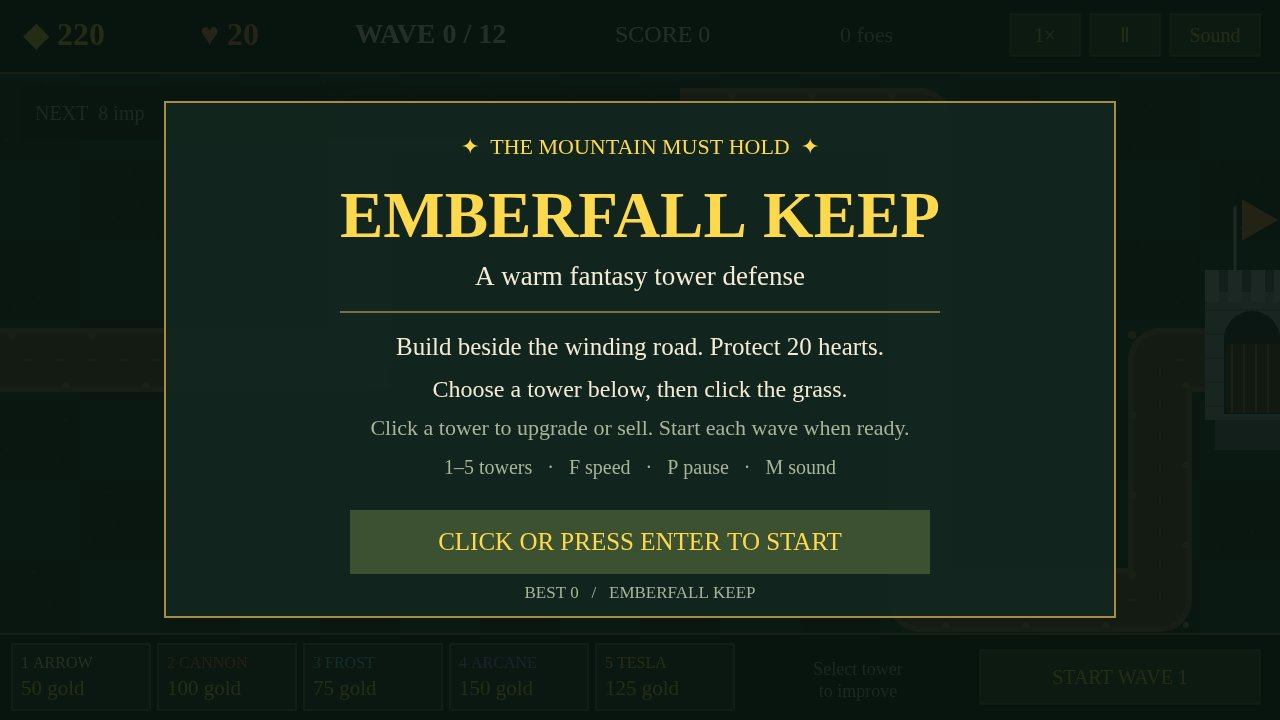
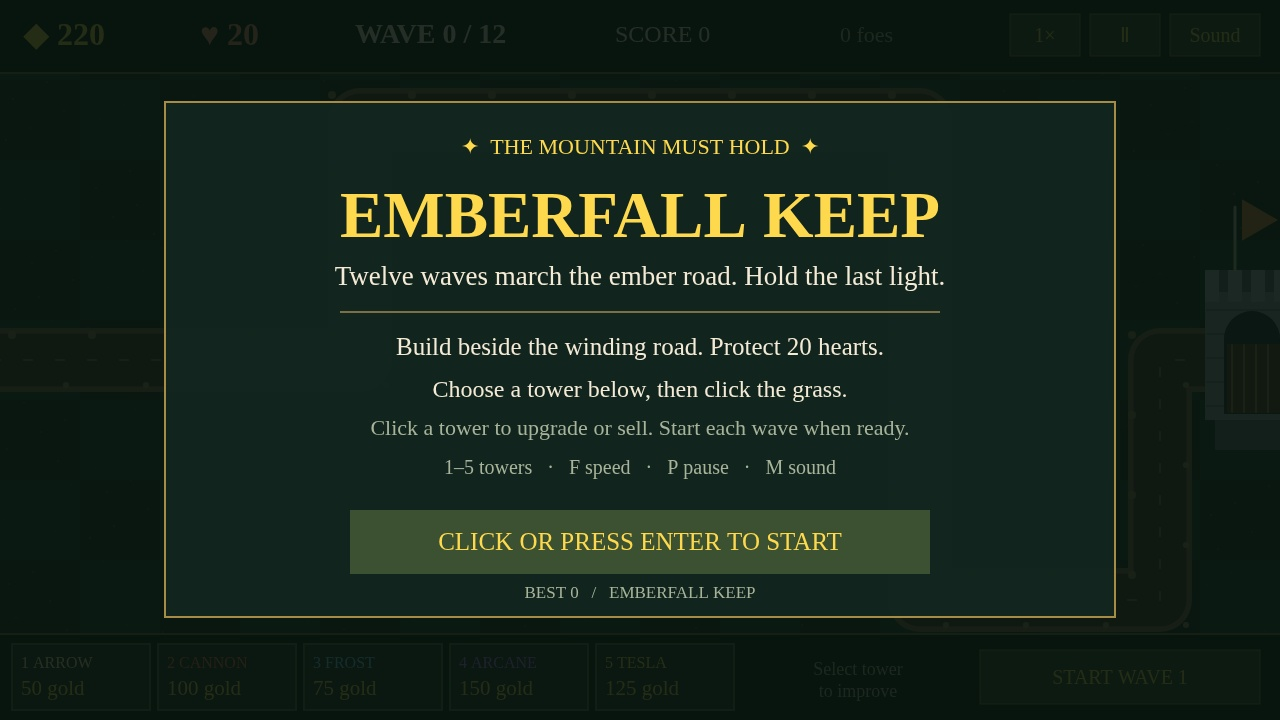
best-game-01: EMBERFALL KEEP (best-game-01: EMBERFALL KEEP winner-study pass — staged covers, truth checks, look gates, hook, outline)

Changed region(s): [[0.25, 0.3667, 0.75, 0.3972]]

diff --git a/game/src/render.js b/game/src/render.js
@@ -1,17 +1,17 @@
-import {TOWERS,ENEMIES,PATH_CELLS,WAYPOINTS,PALETTE as P,WAVES} from './config.js';
+import {TOWERS,ENEMIES,PATH_CELLS,WAYPOINTS,PALETTE as P,WAVES,KEEPER_LINES,VICTORY_LINE,DEFEAT_LINE} from './config.js';
 export const BUTTONS={start:[980,650,280,54],speed:[1010,14,70,42],pause:[1090,14,70,42],mute:[1170,14,90,42],upgrade:[755,650,105,54],sell:[870,650,100,54]};
 export const CARDS=Object.keys(TOWERS);
-export function createRenderer(canvas){const ctx=canvas.getContext('2d');let scale=1,ox=0,oy=0;
+export function createRenderer(canvas){const ctx=canvas.getContext('2d');let scale=1,ox=0,oy=0,curUi=null;
  const rect=(x,y,w,h,c)=>{ctx.fillStyle=c;ctx.fillRect(x,y,w,h);};
  function text(s,x,y,size=20,color=P.text,align='left',font='Georgia'){ctx.fillStyle=color;ctx.font=`${size>=28?'bold ':''}${size}px ${font}`;ctx.textAlign=align;ctx.fillText(s,x,y);}
  function circle(x,y,r,c){ctx.fillStyle=c;ctx.beginPath();ctx.arc(x,y,r,0,Math.PI*2);ctx.fill();}
  function line(x,y,tx,ty,color,width=2){ctx.strokeStyle=color;ctx.lineWidth=width;ctx.beginPath();ctx.moveTo(x,y);ctx.lineTo(tx,ty);ctx.stroke();}
  function polygon(x,y,r,n,color,rotation=0){ctx.fillStyle=color;ctx.beginPath();for(let i=0;i<n;i++){const a=i/n*Math.PI*2+rotation;ctx.lineTo(x+Math.cos(a)*r,y+Math.sin(a)*r);}ctx.closePath();ctx.fill();}
  function tower(type,x,y,level=1,angle=-Math.PI/2){const color=TOWERS[type].color;circle(x,y+18,26,'#102119');rect(x-21,y-15,42,38,type==='arrow'?P.wood:'#6a7778');rect(x-17,y-19,34,7,'#a3a99a');if(type==='arrow'){rect(x-10,y-27,20,25,'#a77543');ctx.strokeStyle=color;ctx.lineWidth=4;ctx.beginPath();ctx.arc(x,y-8,20,angle-1,angle+1);ctx.stroke();line(x,y-8,x+Math.cos(angle)*29,y-8+Math.sin(angle)*29,color,3);}if(type==='cannon'){circle(x,y-5,18,'#b7b7a2');line(x,y-5,x+Math.cos(angle)*33,y-5+Math.sin(angle)*33,'#263138',18);circle(x+Math.cos(angle)*31,y-5+Math.sin(angle)*31,7,color);}if(type==='frost'){polygon(x,y-17,27,4,color);polygon(x,y-17,14,4,'#e2fbff');}if(type==='arcane'){circle(x,y-20,22,'#633b85');circle(x,y-20,15,color);circle(x-5,y-26,5,'#f4dfff');}if(type==='tesla'){rect(x-6,y-33,12,42,'#a56e39');for(let i=0;i<4;i++)rect(x-15,y-23+i*8,30,4,'#f2bc69');circle(x,y-34,9,color);line(x-21,y-22,x-29,y-34,color,2);line(x+21,y-22,x+28,y-37,color,2);}for(let i=0;i<level;i++)circle(x-8+(i*8),y+30,3,P.gold);}
- function enemy(e){const {x,y,radius:r,kind}=e;circle(x,y+r*.8,r*.9,'#33291d');if(e.slow>0){ctx.strokeStyle='#7ad9ff';ctx.lineWidth=3;ctx.beginPath();ctx.arc(x,y,r+5,0,7);ctx.stroke();}if(kind==='armored'){polygon(x,y,r,6,'#9aa3ad',.5);polygon(x,y,8,5,'#535b60');}else if(kind==='runner'){polygon(x,y,r+4,3,'#ff7052',0);}else if(kind==='healer'){circle(x,y,r,'#65c885');text('+',x,y+7,25,'#e8ffbc','center');circle(x+Math.sin(e.distance)*16,y-15,2,'#c4ffc1');}else if(kind==='swarm'){polygon(x-7,y,10,3,'#a25464');polygon(x+7,y,10,3,'#a25464');circle(x,y,5,'#ff9162');}else{polygon(x-r*.6,y-r*.8,r*.5,3,'#ffc25d',-1.6);polygon(x+r*.6,y-r*.8,r*.5,3,'#ffc25d',-1.6);circle(x,y,r,kind==='boss'?'#a63c2c':'#e36739');if(kind==='boss'){for(let i=0;i<5;i++)polygon(x-24+i*12,y-32,13,3,'#ffb944',-1.6);polygon(x,y,19,5,'#f98b3b');}circle(x-r*.35,y-3,3,'#ffe7a2');circle(x+r*.35,y-3,3,'#ffe7a2');}rect(x-r,y-r-11,r*2,4,'#211d18');rect(x-r,y-r-11,r*2*Math.max(0,e.hp/e.maxHp),4,kind==='boss'?'#ffc256':'#b5df85');}
- function button(id,label,enabled=true){const b=BUTTONS[id];rect(...b,enabled?'#344c36':'#243025');ctx.strokeStyle='#8c8048';ctx.lineWidth=1;ctx.strokeRect(...b);text(label,b[0]+b[2]/2,b[1]+b[3]/2+7,20,enabled?P.gold:P.muted,'center');}
- function draw(state,screen,ui){const dpr=window.devicePixelRatio||1,w=innerWidth,h=innerHeight;if(canvas.width!==w*dpr||canvas.height!==h*dpr){canvas.width=w*dpr;canvas.height=h*dpr;}scale=Math.min(w/1280,h/720);ox=(w-1280*scale)/2;oy=(h-720*scale)/2;ctx.setTransform(dpr,0,0,dpr,0,0);rect(0,0,w,h,P.background);ctx.translate(ox,oy);ctx.scale(scale,scale);
- ctx.save();const shake=state.trauma**2*10;ctx.translate(Math.sin(state.time*81)*shake,Math.cos(state.time*97)*shake);
+ function enemy(e){const {x,y,radius:r,kind}=e;circle(x,y,r+4,'rgba(255,214,140,0.20)');circle(x,y+r*.8,r*.9,'#33291d');if(e.slow>0){ctx.strokeStyle='#7ad9ff';ctx.lineWidth=3;ctx.beginPath();ctx.arc(x,y,r+5,0,7);ctx.stroke();}if(kind==='armored'){polygon(x,y,r,6,'#9aa3ad',.5);polygon(x,y,8,5,'#535b60');}else if(kind==='runner'){polygon(x,y,r+4,3,'#ff7052',0);}else if(kind==='healer'){circle(x,y,r,'#65c885');text('+',x,y+7,25,'#e8ffbc','center');circle(x+Math.sin(e.distance)*16,y-15,2,'#c4ffc1');}else if(kind==='swarm'){polygon(x-7,y,10,3,'#a25464');polygon(x+7,y,10,3,'#a25464');circle(x,y,5,'#ff9162');}else{polygon(x-r*.6,y-r*.8,r*.5,3,'#ffc25d',-1.6);polygon(x+r*.6,y-r*.8,r*.5,3,'#ffc25d',-1.6);circle(x,y,r,kind==='boss'?'#a63c2c':'#e36739');if(kind==='boss'){for(let i=0;i<5;i++)polygon(x-24+i*12,y-32,13,3,'#ffb944',-1.6);polygon(x,y,19,5,'#f98b3b');}circle(x-r*.35,y-3,3,'#ffe7a2');circle(x+r*.35,y-3,3,'#ffe7a2');}rect(x-r,y-r-12,r*2,5,'#211d18');rect(x-r,y-r-12,r*2*Math.max(0,e.hp/e.maxHp),5,kind==='boss'?'#ffc256':'#b5df85');}
+ function button(id,label,enabled=true){const b=BUTTONS[id];const hov=enabled&&curUi&&curUi.hoverX>=b[0]&&curUi.hoverX<b[0]+b[2]&&curUi.hoverY>=b[1]&&curUi.hoverY<b[1]+b[3];rect(...b,hov?'#4a5f3d':enabled?'#344c36':'#243025');ctx.strokeStyle=hov?P.gold:'#8c8048';ctx.lineWidth=1;ctx.strokeRect(...b);text(label,b[0]+b[2]/2,b[1]+b[3]/2+7,20,enabled?P.gold:P.muted,'center');}
+ function draw(state,screen,ui){curUi=ui;const dpr=window.devicePixelRatio||1,w=innerWidth,h=innerHeight;if(canvas.width!==w*dpr||canvas.height!==h*dpr){canvas.width=w*dpr;canvas.height=h*dpr;}scale=Math.min(w/1280,h/720);ox=(w-1280*scale)/2;oy=(h-720*scale)/2;ctx.setTransform(dpr,0,0,dpr,0,0);rect(0,0,w,h,P.background);ctx.translate(ox,oy);ctx.scale(scale,scale);
+ ctx.save();const effTrauma=Math.max(state.trauma,ui.shake||0),shake=effTrauma**2*10;ctx.translate(Math.sin(state.time*81)*shake,Math.cos(state.time*97)*shake);
  for(let r=0;r<9;r++)for(let c=0;c<16;c++){rect(c*80,r*80,80,80,(r+c)%2?P.grassA:P.grassB);for(let i=0;i<5;i++)circle(c*80+((c*31+i*17+r*13)%75),r*80+((r*19+i*29+c*7)%75),1,'#38503a');}
  ctx.lineJoin='round';ctx.lineCap='round';for(const [width,color] of [[64,P.edge],[53,P.path]]){ctx.beginPath();ctx.strokeStyle=color;ctx.lineWidth=width;for(const p of WAYPOINTS)ctx.lineTo(...p);ctx.stroke();}ctx.setLineDash([8,24]);ctx.lineWidth=2;ctx.strokeStyle='#907452';ctx.stroke();ctx.setLineDash([]);
  for(const [c,r] of PATH_CELLS){circle(c*80+12,r*80+15,4,'#99805b');circle(c*80+66,r*80+65,3,'#a38a65');}
@@ -25,13 +25,15 @@ export function createRenderer(canvas){const ctx=canvas.getContext('2d');let sca
  for(const p of state.particles)if(p.active){ctx.globalAlpha=p.life/p.maxLife;if(p.zap){line(p.x,p.y,(p.x+p.tx)/2+9,(p.y+p.ty)/2-8,p.color,3);line((p.x+p.tx)/2+9,(p.y+p.ty)/2-8,p.tx,p.ty,p.color,3);}else circle(p.x,p.y,p.size,p.color);}ctx.globalAlpha=1;
  for(const t of state.texts)if(t.active)text(t.text,t.x,t.y,16,P.gold,'center');ctx.restore();
  rect(0,0,1280,74,'#101c15');rect(0,72,1280,2,'#7f7545');text('◆ '+state.gold,24,45,32,P.gold);text('♥ '+state.lives,200,45,32,'#ff9976');text('WAVE '+state.wave+' / 12',355,43,28);text('SCORE '+state.score,615,42,24);const left=state.enemies.reduce((n,e)=>n+e.active,0)+state.spawnCount-state.spawnIndex;text(left+' foes',840,42,22,P.muted);button('speed',state.speed+'×');button('pause',ui.paused?'▶':'Ⅱ');button('mute',ui.muted?'Muted':'Sound');
- rect(0,634,1280,86,'#101c15');line(0,634,1280,634,'#7f7545');CARDS.forEach((type,i)=>{const x=12+i*146,def=TOWERS[type];rect(x,644,138,66,ui.selectedType===type?'#425438':'#26382a');ctx.strokeStyle=ui.selectedType===type?P.gold:'#5e6a48';ctx.strokeRect(x,644,138,66);text((i+1)+' '+type.toUpperCase(),x+9,668,16,state.gold>=def.cost?def.color:'#798275');text(def.cost+' gold',x+9,695,21,state.gold>=def.cost?P.gold:'#798275');});
+ rect(0,634,1280,86,'#101c15');line(0,634,1280,634,'#7f7545');CARDS.forEach((type,i)=>{const x=12+i*146,def=TOWERS[type];const hov=ui.hoverX>=x&&ui.hoverX<x+138&&ui.hoverY>=644&&ui.hoverY<710;rect(x,644,138,66,ui.selectedType===type?'#425438':hov?'#33482e':'#26382a');ctx.strokeStyle=ui.selectedType===type||hov?P.gold:'#5e6a48';ctx.strokeRect(x,644,138,66);text((i+1)+' '+type.toUpperCase(),x+9,668,16,state.gold>=def.cost?def.color:'#798275');text(def.cost+' gold',x+9,695,21,state.gold>=def.cost?P.gold:'#798275');});
  if(ui.selectedTower?.active){const t=ui.selectedTower;button('upgrade',t.level===3?'MAX':'↑ '+Math.round(TOWERS[t.type].cost*(t.level===1?.75:1.25))+'g',t.level<3);button('sell','Sell '+Math.floor(t.invested*.7));}else{text('Select tower',858,675,18,P.muted,'center');text('to improve',858,697,18,P.muted,'center');}button('start',state.waveState==='build'?'START WAVE '+(state.wave+1):state.waveState==='clear'?'WAVE CLEAR':'WAVE '+state.wave+' IN PROGRESS',state.waveState==='build');
- if(state.waveState==='build'){rect(20,86,660,54,'#14271ddd');text('NEXT  '+(WAVES[state.wave]||[]).map(([k,n])=>n+' '+k).join('  ·  '),35,120,20,P.muted);}
+ if(screen==='playing'&&state.waveState==='build'){rect(20,86,660,80,'#14271ddd');text('NEXT  '+(WAVES[state.wave]||[]).map(([k,n])=>n+' '+k).join('  ·  '),35,118,20,P.muted);text(KEEPER_LINES[state.wave]||'',35,148,18,'#cbbd8f');}
  if(state.waveState==='clear'){rect(380,280,520,100,'#102119ee');text('WAVE CLEAR  +'+(25+15*state.wave)+'g',640,342,34,P.gold,'center');}
- const boss=state.enemies.find(e=>e.active&&e.kind==='boss');if(boss){rect(350,86,580,48,'#171d18');text('EMBER TITAN',640,106,18,P.gold,'center');rect(365,114,550,9,'#46302a');rect(365,114,550*boss.hp/boss.maxHp,9,'#ff7a3d');}
- if(screen==='title'||screen==='won'||screen==='lost'){rect(0,0,1280,720,'#07130ee0');rect(165,102,950,515,'#12261ff0');ctx.strokeStyle='#a78c45';ctx.lineWidth=2;ctx.strokeRect(165,102,950,515);text('✦  THE MOUNTAIN MUST HOLD  ✦',640,154,22,P.gold,'center');text(screen==='title'?'EMBERFALL KEEP':screen==='won'?'THE KEEP ENDURES':'THE KEEP HAS FALLEN',640,237,screen==='title'?65:48,P.gold,'center');text(screen==='title'?'A warm fantasy tower defense':screen==='won'?'VICTORY  ·  ALL 12 WAVES SURVIVED':'DEFEAT  ·  WAVE '+state.wave,640,285,27,P.text,'center');line(340,312,940,312,'#7b7045');if(screen==='title'){text('Build beside the winding road. Protect 20 hearts.',640,355,25,P.text,'center');text('Choose a tower below, then click the grass.',640,397,24,P.text,'center');text('Click a tower to upgrade or sell. Start each wave when ready.',640,435,22,P.muted,'center');text('1–5 towers   ·   F speed   ·   P pause   ·   M sound',640,474,20,P.muted,'center');}else{text('SCORE '+state.score+'     ·     KILLS '+state.kills,640,375,34,P.text,'center');text(state.lives+' hearts remain   ·   Best '+ui.best,640,429,26,P.muted,'center');}rect(350,510,580,64,'#3c5132');text(screen==='title'?'CLICK OR PRESS ENTER TO START':'CLICK OR PRESS R TO PLAY AGAIN',640,550,25,P.gold,'center');text('BEST '+ui.best+'   /   EMBERFALL KEEP',640,598,17,P.muted,'center');}
+ if(ui.toast){rect(320,280,640,92,'#102119ee');text(ui.toast.title,640,320,30,ui.toast.boss?'#ff9a5c':P.gold,'center');text(ui.toast.line,640,352,20,'#e8dcc0','center');}
+ const boss=state.enemies.find(e=>e.active&&e.kind==='boss');if(boss){rect(350,590,580,40,'#171d18ee');ctx.strokeStyle='#7b7045';ctx.lineWidth=1;ctx.strokeRect(350,590,580,40);text('EMBER TITAN',640,608,17,P.gold,'center');rect(365,616,550,8,'#46302a');rect(365,616,550*boss.hp/boss.maxHp,8,'#ff7a3d');}
+ if(screen==='title'||screen==='won'||screen==='lost'){rect(0,0,1280,720,'#07130ee0');rect(165,102,950,515,'#12261ff0');ctx.strokeStyle='#a78c45';ctx.lineWidth=2;ctx.strokeRect(165,102,950,515);text('✦  THE MOUNTAIN MUST HOLD  ✦',640,154,22,P.gold,'center');text(screen==='title'?'EMBERFALL KEEP':screen==='won'?'THE KEEP ENDURES':'THE KEEP HAS FALLEN',640,237,screen==='title'?65:48,P.gold,'center');text(screen==='title'?'Twelve waves march the ember road. Hold the last light.':screen==='won'?'VICTORY  ·  ALL 12 WAVES SURVIVED':'DEFEAT  ·  WAVE '+state.wave,640,285,27,P.text,'center');line(340,312,940,312,'#7b7045');if(screen==='title'){text('Build beside the winding road. Protect 20 hearts.',640,355,25,P.text,'center');text('Choose a tower below, then click the grass.',640,397,24,P.text,'center');text('Click a tower to upgrade or sell. Start each wave when ready.',640,435,22,P.muted,'center');text('1–5 towers   ·   F speed   ·   P pause   ·   M sound',640,474,20,P.muted,'center');}else{text('SCORE '+state.score+'     ·     KILLS '+state.kills,640,375,34,P.text,'center');text(state.lives+' hearts remain   ·   Best '+ui.best,640,429,26,P.muted,'center');text(screen==='won'?VICTORY_LINE:DEFEAT_LINE,640,472,20,'#cbbd8f','center');}const ctaHov=curUi&&curUi.hoverX>=350&&curUi.hoverX<930&&curUi.hoverY>=510&&curUi.hoverY<574;rect(350,510,580,64,ctaHov?'#54703f':'#3c5132');text(screen==='title'?'CLICK OR PRESS ENTER TO START':'CLICK OR PRESS R TO PLAY AGAIN',640,550,25,P.gold,'center');text('BEST '+ui.best+'   /   EMBERFALL KEEP',640,598,17,P.muted,'center');}
  if(ui.paused&&screen==='playing'){rect(0,74,1280,560,'#0b160bdc');text('PAUSED',640,325,65,P.gold,'center');text('Click pause or press P to continue',640,380,26,P.text,'center');}
+ if(ui.flashAlpha>0){ctx.globalAlpha=ui.flashAlpha;rect(0,0,1280,720,ui.flashColor||'#ffffff');ctx.globalAlpha=1;}
  }
  return {draw,clientToField(cx,cy){return {x:(cx-ox)/scale,y:(cy-oy)/scale};}};
 }

diff --git a/game/src/main.js b/game/src/main.js
@@ -1,21 +1,37 @@
+// EMBERFALL KEEP — main loop and screens. Where things live:
+// config.js (numbers, colours, Keeper lines) -> random.js (seeded RNG) ->
+// world.js (simulation: rules and state, no drawing) -> input.js (mouse and
+// keys) -> audio.js (synth sounds per event flag) -> render.js (drawing
+// only) -> shots.js (auto-player and staged-cover ticks). This file owns the
+// screens, the fixed 1/60 timestep, hit-stop (real-time restore), the
+// tiered feedback bundles, the wave toast, and the best score.
 import {createWorld} from './world.js';
 import {createRandom} from './random.js';
 import {createRenderer,BUTTONS,CARDS} from './render.js';
 import {createInput} from './input.js';
 import {createAudio} from './audio.js';
 import {runShot} from './shots.js';
-import {BEST_KEY} from './config.js';
+import {BEST_KEY,KEEPER_LINES} from './config.js';
 const canvas=document.querySelector('#game'),renderer=createRenderer(canvas),input=createInput(canvas,renderer.clientToField),audio=createAudio(),params=new URLSearchParams(location.search),world=createWorld(createRandom(Number(params.get('seed')||1))),state=world.state;
-let screen='title',paused=false,muted=false,selectedType='arrow',selectedTower=null,best=0,last=0,acc=0;
+let screen='title',paused=false,muted=false,selectedType='arrow',selectedTower=null,best=0,last=0,acc=0,freezeUntil=0,uiShake=0,flashColor='#ffffff',flashAlpha=0,toast=null,toastUntil=0,lastCursor='';
 try{best=JSON.parse(localStorage.getItem(BEST_KEY)||'{}').score||0;}catch{}
 window.__game={state,world};
 function announce(s){document.querySelector('#status').textContent=s;}
 function save(){if(state.score>best){best=state.score;try{localStorage.setItem(BEST_KEY,JSON.stringify({score:best,wave:state.wave}));}catch{}}}
-function draw(){renderer.draw(state,screen,{best,muted,selectedType,selectedTower,hoverCell:input.mouse.cell,paused,wavePreview:state.wave+1});}
+function draw(){renderer.draw(state,screen,{best,muted,selectedType,selectedTower,hoverCell:input.mouse.cell,hoverX:input.mouse.x,hoverY:input.mouse.y,paused,wavePreview:state.wave+1,shake:uiShake,flashColor,flashAlpha,toast:toast&&state.time<toastUntil?toast:null});}
 function restart(){world.reset();screen='playing';paused=false;selectedTower=null;selectedType='arrow';announce('New run. Build your defenses.');}
-function start(){if(world.startWave()){audio.horn();announce('Wave '+state.wave+' begins.');}}
-function sounds(flags){for(const [flag,name] of [[1,'shoot'],[2,'cannon'],[4,'frost'],[8,'zap'],[32,'coin'],[64,'leak'],[256,'win'],[512,'lose'],[1024,'build'],[2048,'upgrade']])if(flags&flag)audio[name]();if(flags&64)announce('A creature reached the keep. '+state.lives+' hearts left.');if(flags&128)announce('Wave '+state.wave+' cleared.');}
+function start(){if(world.startWave()){audio.horn();toast={title:state.wave===12?'THE EMBER TITAN AWAKENS':'WAVE '+state.wave,line:KEEPER_LINES[state.wave-1]||'',boss:state.wave===12};toastUntil=state.time+3.5;announce('Wave '+state.wave+' begins. '+(KEEPER_LINES[state.wave-1]||''));}}
+function sounds(flags){for(const [flag,name] of [[1,'shoot'],[2,'cannon'],[4,'frost'],[8,'zap'],[32,'coin'],[64,'leak'],[128,'clear'],[256,'win'],[512,'lose'],[1024,'build'],[2048,'upgrade']])if(flags&flag)audio[name]();if(flags&64)announce('A creature reached the keep. '+state.lives+' hearts left.');if(flags&128)announce('Wave '+state.wave+' cleared.');}
 function click(){audio.unlock();if(screen==='title'){screen='playing';return;}if(screen==='won'||screen==='lost'){restart();return;}const m=input.mouse;for(const [key,b] of Object.entries(BUTTONS))if(m.x>=b[0]&&m.x<b[0]+b[2]&&m.y>=b[1]&&m.y<b[1]+b[3]){if(key==='start'&&!paused)start();if(key==='speed')state.speed=state.speed===1?2:1;if(key==='pause')paused=!paused;if(key==='mute')muted=audio.toggleMute();if(key==='upgrade'&&!paused)world.upgrade(selectedTower);if(key==='sell'&&!paused){world.sell(selectedTower);selectedTower=null;}return;}if(m.y>=644){const i=Math.floor((m.x-12)/146);if(i>=0&&i<5){selectedType=CARDS[i];selectedTower=null;}return;}if(m.y<74||m.y>634||paused)return;const cell=m.cell;for(const t of state.towers)if(t.active&&t.c===cell.c&&t.r===cell.r){selectedTower=t;selectedType=null;return;}if(selectedType)world.build(selectedType,cell);else selectedTower=null;}
-if(params.has('shot')){const name=params.get('shot');runShot(world,name);screen=name==='start'?'title':state.waveState==='won'?'won':'playing';selectedType=null;draw();window.__shotReady=true;}else{
- function frame(now){const dt=Math.min(.1,(now-last)/1000||0);last=now;const actions=input.takeActions(),type=input.selectedTowerType();if(type){selectedType=type;selectedTower=null;}if(input.mouse.clicked){input.mouse.clicked=false;click();}if(actions.ACTION_MUTE)muted=audio.toggleMute();if(actions.ACTION_START_WAVE){audio.unlock();if(screen==='title')screen='playing';else if(screen==='playing'&&!paused)start();}if(actions.ACTION_RESTART&&(screen==='won'||screen==='lost'))restart();if(actions.ACTION_PAUSE&&screen==='playing')paused=!paused;if(actions.ACTION_DESELECT){selectedType=null;selectedTower=null;}if(actions.ACTION_SPEED)state.speed=state.speed===1?2:1;if(screen==='playing'&&!paused){acc+=dt*state.speed;while(acc>=1/60){sounds(world.step(1/60));acc-=1/60;}if(state.waveState==='won'||state.waveState==='lost'){screen=state.waveState;save();announce(screen==='won'?'Victory! The keep endures.':'Defeat. Click to retry.');}}draw();requestAnimationFrame(frame);}requestAnimationFrame(frame);
+if(params.has('shot')){const name=params.get('shot');runShot(world,name,Number(params.get('steps')||0)||undefined);screen=name==='start'?'title':state.waveState==='won'?'won':'playing';selectedType=null;draw();window.__shotReady=true;}else{
+ function frame(now){const dt=Math.min(.1,(now-last)/1000||0);last=now;if(now<freezeUntil){draw();requestAnimationFrame(frame);return;}const actions=input.takeActions(),type=input.selectedTowerType();if(type){selectedType=type;selectedTower=null;}if(input.mouse.clicked){input.mouse.clicked=false;click();}if(actions.ACTION_MUTE)muted=audio.toggleMute();if(actions.ACTION_START_WAVE){audio.unlock();if(screen==='title')screen='playing';else if(screen==='playing'&&!paused)start();}if(actions.ACTION_RESTART&&(screen==='won'||screen==='lost'))restart();if(actions.ACTION_PAUSE&&screen==='playing')paused=!paused;if(actions.ACTION_DESELECT){selectedType=null;selectedTower=null;}if(actions.ACTION_SPEED)state.speed=state.speed===1?2:1;if(screen==='playing'&&!paused){acc+=dt*state.speed;const bossAlive=state.enemies.some(e=>e.active&&e.kind==='boss');let frameFlags=0;while(acc>=1/60){const f=world.step(1/60);frameFlags|=f;sounds(f);acc-=1/60;}
+ if(bossAlive&&!state.enemies.some(e=>e.active&&e.kind==='boss')){freezeUntil=now+120;uiShake=1;flashColor='#ffd94d';flashAlpha=.28;audio.bossDown();}
+ if(frameFlags&128){freezeUntil=Math.max(freezeUntil,now+50);uiShake=Math.max(uiShake,.35);flashColor='#ffd94d';flashAlpha=Math.max(flashAlpha,.14);}
+ if(frameFlags&64){flashColor='#ff5a3d';flashAlpha=Math.max(flashAlpha,.18);}if(state.waveState==='won'||state.waveState==='lost'){screen=state.waveState;save();announce(screen==='won'?'Victory! The keep endures.':'Defeat. Click to retry.');}}
+ uiShake=Math.max(0,uiShake-dt*1.6);flashAlpha=Math.max(0,flashAlpha-dt*2.2);
+ const mx=input.mouse.x,my=input.mouse.y;let cur='default';
+ if(screen==='title'||screen==='won'||screen==='lost'){if(mx>=350&&mx<930&&my>=510&&my<574)cur='pointer';}
+ else if(screen==='playing'){for(const [key,b] of Object.entries(BUTTONS)){if(key==='upgrade'||key==='sell'){if(!selectedTower)continue;}if(mx>=b[0]&&mx<b[0]+b[2]&&my>=b[1]&&my<b[1]+b[3]){cur='pointer';break;}}if(cur==='default'&&my>=644&&my<710&&mx>=12&&mx<742)cur='pointer';}
+ if(cur!==lastCursor){canvas.style.cursor=cur;lastCursor=cur;}
+ draw();requestAnimationFrame(frame);}requestAnimationFrame(frame);
 }

diff --git a/game/src/shots.js b/game/src/shots.js
@@ -1,4 +1,22 @@
 // The same public-action strategy drives screenshots and the balance test.
+// Staged covers (SUNWRIGHT stageplan pattern): the best capture tick of a
+// shot is found by scanning seeds headlessly (tools/scan-seeds.mjs) and
+// pinned in shots.json as ?shot=<name>&seed=<n>&steps=<k>. The sim is
+// deterministic (fixed 1/60 steps, seeded RNG, no wall clock), so the same
+// seed + step count reproduces the exact frame in the browser and in a
+// headless replay -- which is what tools/check-shot-truth.py asserts.
 export const LAYOUT=[['arrow',3,3],['arrow',5,3],['cannon',5,2],['arrow',3,2],['tesla',10,2],['frost',10,3],['arcane',6,2],['cannon',10,6],['tesla',12,6],['arrow',12,3],['arcane',8,2],['cannon',13,6],['tesla',5,0],['arcane',12,4],['arrow',10,4],['frost',12,5]];
 export function autoBuild(world){const s=world.state;for(const [type,c,r] of LAYOUT){let tower=null;for(const t of s.towers)if(t.active&&t.c===c&&t.r===r)tower=t;if(!tower){if(!world.build(type,{c,r}))return;}}for(let level=2;level<=3;level++)for(const t of s.towers)if(t.active&&t.level<level&&!world.upgrade(t))return;}
-export function runShot(world,name){if(name==='start')return {done:true};const s=world.state;for(let i=0;i<400000;i++){if(s.waveState==='build'){autoBuild(world);world.startWave();}world.step(1/60);if(name==='play'&&s.wave===5&&s.enemies.some(e=>e.active&&e.distance>480)&&s.projectiles.some(p=>p.active))return {done:true};if(name==='action'&&s.wave===12&&s.enemies.some(e=>e.active&&e.kind==='boss'&&e.distance>620))return {done:true};if(s.waveState==='won')return {done:true};if(s.waveState==='lost')throw Error('Auto-player lost');}throw Error('Shot timeout');}
+// Drive the auto-player with fixed steps. After each step fn(stepIndex,
+// state) runs; returning true stops. Returns {steps, won}. One loop for the
+// shot script and the seed scan, so a scanned step count replays exactly.
+export function drive(world,fn){const s=world.state;for(let i=0;i<400000;i++){if(s.waveState==='build'){autoBuild(world);world.startWave();}world.step(1/60);if(fn&&fn(i+1,s))return {steps:i+1,won:false};if(s.waveState==='won')return {steps:i+1,won:true};if(s.waveState==='lost')throw Error('Auto-player lost');}throw Error('Shot timeout');}
+// Cover density scores for one tick. play: enemies on the road, floaters,
+// projectiles, upgraded towers, slowed enemies. action: the Titan at the
+// rim (top straight, distance 500-800) and already damaged, plus density.
+export function scorePlayTick(s){let enemies=0,floaters=0,projectiles=0,slowed=0,towers=0,level3=0;for(const e of s.enemies)if(e.active){enemies++;if(e.slow>0)slowed++;}for(const t of s.texts)if(t.active)floaters++;for(const p of s.projectiles)if(p.active)projectiles++;for(const t of s.towers)if(t.active){towers++;if(t.level===3)level3++;}return {score:enemies*2+floaters*3+projectiles+level3*2+Math.min(slowed,3)+Math.min(towers,16),enemies,floaters,projectiles,slowed,towers,level3,gold:s.gold,gameScore:s.score,lives:s.lives,wave:s.wave,foes:enemies+s.spawnCount-s.spawnIndex};}
+export function scoreActionTick(s){let enemies=0,floaters=0,projectiles=0,boss=null;for(const e of s.enemies)if(e.active){enemies++;if(e.kind==='boss')boss=e;}for(const t of s.texts)if(t.active)floaters++;for(const p of s.projectiles)if(p.active)projectiles++;if(!boss)return null;const rim=boss.distance>=500&&boss.distance<=800?15:0,damaged=(1-boss.hp/boss.maxHp)*10;return {score:rim+damaged+enemies*2+floaters*3+projectiles,enemies,floaters,projectiles,bossDist:Math.round(boss.distance),bossHp:+(boss.hp/boss.maxHp).toFixed(2),gold:s.gold,gameScore:s.score,lives:s.lives,wave:s.wave,foes:enemies+s.spawnCount-s.spawnIndex};}
+export function runShot(world,name,steps){if(name==='start')return {done:true};const s=world.state;
+ if(steps){drive(world,(n)=>n>=steps);return {done:true};}
+ drive(world,()=>{if(name==='play'&&s.wave===5&&s.enemies.some(e=>e.active&&e.distance>480)&&s.projectiles.some(p=>p.active))return true;if(name==='action'&&s.wave===12&&s.enemies.some(e=>e.active&&e.kind==='boss'&&e.distance>620))return true;return false;});
+ return {done:true};}

diff --git a/game/src/config.js b/game/src/config.js
@@ -1,3 +1,5 @@
+// EMBERFALL KEEP config: every number, colour and Keeper line. No logic.
+// Architecture map lives at the top of main.js: config -> sim -> systems -> render.
 export const FIELD={width:1280,height:720}, GRID={cols:16,rows:9}, CELL=80;
 export const WAYPOINTS=[[-40,360],[360,360],[360,120],[920,120],[920,600],[1160,600],[1160,360],[1280,360]];
 export const PATH_CELLS=[[0,4],[1,4],[2,4],[3,4],[4,4],[4,3],[4,2],[4,1],[5,1],[6,1],[7,1],[8,1],[9,1],[10,1],[11,1],[11,2],[11,3],[11,4],[11,5],[11,6],[11,7],[12,7],[13,7],[14,7],[14,6],[14,5],[14,4],[15,4]];
@@ -5,6 +7,10 @@ export const TOWERS={arrow:{cost:50,damage:8,interval:.5,range:176,speed:520,col
 export const ENEMIES={imp:{hp:30,speed:55,gold:6,score:10,leak:1,radius:13},runner:{hp:18,speed:110,gold:5,score:15,leak:1,radius:10},armored:{hp:160,speed:32,gold:14,score:25,leak:1,radius:16},healer:{hp:40,speed:50,gold:12,score:30,leak:1,radius:12},swarm:{hp:8,speed:90,gold:2,score:5,leak:1,radius:7},boss:{hp:2400,speed:26,gold:200,score:500,leak:5,radius:30}};
 export const WAVES=[ [['imp',8]], [['imp',12],['runner',4]], [['imp',10],['runner',8],['armored',2]], [['imp',8],['runner',6],['armored',4],['swarm',6]], [['imp',12],['runner',8],['armored',6],['healer',2]], [['runner',10],['armored',8],['swarm',12],['healer',3]], [['imp',14],['runner',10],['armored',8],['healer',4],['swarm',12]], [['runner',8],['armored',10],['healer',6],['swarm',18]], [['imp',16],['runner',12],['armored',10],['healer',6]], [['runner',12],['armored',12],['healer',8],['swarm',24]], [['imp',20],['runner',16],['armored',12],['healer',8],['swarm',24]], [['boss',1],['runner',10],['healer',6],['swarm',12]] ];
 export const ECONOMY={startGold:220,lives:20,bonusBase:25,bonusWave:15,upgrade2:.75,upgrade3:1.25,sell:.7};
-export const PALETTE={background:'#0e1a12',grassA:'#1d3324',grassB:'#24402c',path:'#6b543a',edge:'#8a6f4d',stone:'#9aa3ad',wood:'#7a5230',gold:'#ffd94d',text:'#f5ead6',muted:'#a8b39a',ember:'#ff5a3d'};
+export const PALETTE={background:'#0e1a12',grassA:'#1d3324',grassB:'#24402c',path:'#57432e',edge:'#8a6f4d',stone:'#9aa3ad',wood:'#7a5230',gold:'#ffd94d',text:'#f5ead6',muted:'#a8b39a',ember:'#ff5a3d'};
 export const FONT='Georgia, serif', BEST_KEY='emberfall-keep.best';
 export const RULES={slow:.6,slowTime:1.5,healRange:96,healRate:6,chainRange:120,chainCount:3,clearTime:2.5,hpScale:.18,speedScale:.02,speedCap:1.2,spawn:.9,spawnScale:.96,spawnMin:.45,particleCount:512,projectileCount:512,enemyCount:128,towerCount:116,textCount:128,traumaDecay:1.6,damageMultiplier:1};
+
+export const KEEPER_LINES=['Eight imps, fresh from the cinders. Hold the road, Keeper.','Runners now - they are quick, but the road is long.','Armored ones lumber in. Aim where the plates join.','The swarm comes like sparks from a kicked fire.','Healers hide behind the horde. Cut them off first.','The ember horde grows bold. Spend your gold well.','They send everything at once. So do we - hold fast.','The swarm thickens. Frost will thin their ranks.','Sixteen imps and their armored kin. The gate must hold.',"The horde's full strength, Keeper. Every tower counts.",'One more wave, and the Titan stirs beneath the mountain.','The Ember Titan wakes. Everything before was only smoke.'];
+export const VICTORY_LINE='The mountain holds. The embers dim. The Keeper keeps the gate.';
+export const DEFEAT_LINE='The gate is breached - but the Keeper lights the beacons again.';

diff --git a/game/src/audio.js b/game/src/audio.js
@@ -1,3 +1,3 @@
 export function createAudio(){let ctx=null,muted=false,pad=null;function tone(freq,duration=.12,type='sine',gain=.025,slide=1){if(!ctx||muted)return;const o=ctx.createOscillator(),g=ctx.createGain();o.type=type;o.frequency.setValueAtTime(freq,ctx.currentTime);o.frequency.exponentialRampToValueAtTime(freq*slide,ctx.currentTime+duration);g.gain.setValueAtTime(gain,ctx.currentTime);g.gain.exponentialRampToValueAtTime(.0001,ctx.currentTime+duration);o.connect(g).connect(ctx.destination);o.start();o.stop(ctx.currentTime+duration);}
- return {unlock(){if(ctx){ctx.resume();return;}ctx=new AudioContext();pad=ctx.createGain();pad.gain.value=.004;pad.connect(ctx.destination);for(const f of [110,110.7]){const o=ctx.createOscillator();o.frequency.value=f;o.connect(pad);o.start();}},shoot(){tone(700,.06,'triangle',.012,.6);},cannon(){tone(100,.25,'sawtooth',.025,.2);if(!ctx||muted)return;const b=ctx.createBuffer(1,ctx.sampleRate*.12,ctx.sampleRate),a=b.getChannelData(0);for(let i=0;i<a.length;i++)a[i]=(Math.sin(i*78.233)*43758.5453%1)*.06*(1-i/a.length);const s=ctx.createBufferSource();s.buffer=b;s.connect(ctx.destination);s.start();},frost(){tone(1100,.25,'sine',.012,1.5);},zap(){tone(180,.08,'sawtooth',.018,3);},coin(){tone(880,.1);tone(1320,.2);},leak(){tone(65,.3,'triangle',.05,.5);},horn(){tone(220,.6,'triangle',.035,1.5);},win(){for(const f of [440,550,660,880])tone(f,.8,'triangle',.015);},lose(){tone(220,1,'triangle',.03,.25);},build(){tone(160,.08,'square',.02,.5);},upgrade(){tone(660,.4,'sine',.03,2);},toggleMute(){muted=!muted;if(pad)pad.gain.value=muted?0:.004;return muted;}};
+ return {unlock(){if(ctx){ctx.resume();return;}ctx=new AudioContext();pad=ctx.createGain();pad.gain.value=.004;pad.connect(ctx.destination);for(const f of [110,110.7]){const o=ctx.createOscillator();o.frequency.value=f;o.connect(pad);o.start();}},shoot(){tone(700,.06,'triangle',.012,.6);},cannon(){tone(100,.25,'sawtooth',.025,.2);if(!ctx||muted)return;const b=ctx.createBuffer(1,ctx.sampleRate*.12,ctx.sampleRate),a=b.getChannelData(0);for(let i=0;i<a.length;i++)a[i]=(Math.sin(i*78.233)*43758.5453%1)*.06*(1-i/a.length);const s=ctx.createBufferSource();s.buffer=b;s.connect(ctx.destination);s.start();},frost(){tone(1100,.25,'sine',.012,1.5);},zap(){tone(180,.08,'sawtooth',.018,3);},coin(){tone(880,.1);tone(1320,.2);},leak(){tone(65,.3,'triangle',.05,.5);},horn(){tone(220,.6,'triangle',.035,1.5);},win(){for(const f of [440,550,660,880])tone(f,.8,'triangle',.015);},clear(){tone(660,.15,'triangle',.02);tone(990,.3,'triangle',.02);},bossDown(){tone(55,.5,'sawtooth',.04,.5);tone(440,.5,'triangle',.015,2);},lose(){tone(220,1,'triangle',.03,.25);},build(){tone(160,.08,'square',.02,.5);},upgrade(){tone(660,.4,'sine',.03,2);},toggleMute(){muted=!muted;if(pad)pad.gain.value=muted?0:.004;return muted;}};
 }

diff --git a/game/src/world.js b/game/src/world.js
@@ -1,3 +1,5 @@
+// EMBERFALL KEEP simulation: the rules and state, no drawing, no browser.
+// Architecture map lives at the top of main.js: config -> sim -> systems -> render.
 import {TOWERS,ENEMIES,WAVES,WAYPOINTS,PATH_CELLS,ECONOMY,RULES} from './config.js';
 export const EVENT_SHOOT=1,EVENT_CANNON=2,EVENT_FROST=4,EVENT_ZAP=8,EVENT_KILL=16,EVENT_COIN=32,EVENT_LEAK=64,EVENT_WAVE_CLEAR=128,EVENT_WIN=256,EVENT_LOSE=512,EVENT_BUILD=1024,EVENT_UPGRADE=2048;
 export function createWorld(random){

diff --git a/tools/measure-shots.py b/tools/measure-shots.py
@@ -1,0 +1,88 @@
+"""Look gates for EMBERFALL KEEP screenshots (SUNWRIGHT thresholds, copied exactly).
+
+Thresholds (winner-lessons.md section 3, SUNWRIGHT tools/measure-shots.mjs):
+  saturation mean >= 0.33 (aim 0.45), mean luminance >= 0.45,
+  luminance SD >= 40, warm (mean R > mean B), near-black < 2%,
+  no 64x64 block with mean luminance < 0.15.
+Blown 32px blocks are counted (informational: blocks with mean > 0.98).
+Usage: python3 tools/measure-shots.py [--shots-dir screenshots] [--fail]
+Exit 0 unless --fail and any gate fails.
+"""
+import argparse
+import colorsys
+import statistics
+import sys
+from pathlib import Path
+
+from PIL import Image
+
+GATES = {
+    "saturation": ("mean saturation >= 0.33", lambda m: m["sat"] >= 0.33),
+    "mean_luminance": ("mean luminance >= 0.45", lambda m: m["mean_lum"] >= 0.45),
+    "luminance_sd": ("luminance SD >= 40", lambda m: m["sd"] >= 40),
+    "warm": ("warm (mean R > mean B)", lambda m: m["mean_r"] > m["mean_b"]),
+    "near_black": ("near-black < 2%", lambda m: m["near_black"] < 0.02),
+    "dark_blocks": ("no 64x64 block darker than 0.15", lambda m: m["dark_blocks"] == 0),
+}
+
+
+def measure(path):
+    im = Image.open(path).convert("RGB")
+    px = list(im.getdata())
+    n = len(px)
+    lum = [0.2126 * r + 0.7152 * g + 0.0722 * b for r, g, b in px]
+    sats = [colorsys.rgb_to_hsv(r / 255, g / 255, b / 255)[1] for r, g, b in px]
+    g = im.convert("L")
+    w, h = im.size
+    dark_blocks = 0
+    blown_blocks = 0
+    for by in range(0, h - 63, 64):
+        for bx in range(0, w - 63, 64):
+            block = g.crop((bx, by, bx + 64, by + 64))
+            m = sum(list(block.getdata())) / 4096 / 255
+            if m < 0.15:
+                dark_blocks += 1
+    for by in range(0, h - 31, 32):
+        for bx in range(0, w - 31, 32):
+            block = g.crop((bx, by, bx + 32, by + 32))
+            m = sum(list(block.getdata())) / 1024 / 255
+            if m > 0.98:
+                blown_blocks += 1
+    return {
+        "sat": sum(sats) / n,
+        "mean_lum": sum(lum) / n / 255,
+        "sd": statistics.pstdev(lum),
+        "mean_r": sum(p[0] for p in px) / n,
+        "mean_b": sum(p[2] for p in px) / n,
+        "near_black": sum(1 for v in lum if v < 0.02 * 255) / n,
+        "dark_blocks": dark_blocks,
+        "blown_32px_blocks": blown_blocks,
+    }
+
+
+def main():
+    ap = argparse.ArgumentParser()
+    ap.add_argument("--shots-dir", default="screenshots")
+    ap.add_argument("--fail", action="store_true")
+    args = ap.parse_args()
+    shots = sorted(Path(args.shots_dir).glob("*.jpg"))
+    if not shots:
+        print("no screenshots found")
+        return 1
+    all_ok = True
+    for shot in shots:
+        m = measure(shot)
+        print(f"{shot.name}: sat={m['sat']:.3f} meanLum={m['mean_lum']:.3f} "
+              f"sd={m['sd']:.1f} R={m['mean_r']:.0f} B={m['mean_b']:.0f} "
+              f"nearBlack={m['near_black']:.3%} dark64={m['dark_blocks']} "
+              f"blown32={m['blown_32px_blocks']}")
+        for name, (label, test) in GATES.items():
+            ok = test(m)
+            all_ok = all_ok and ok
+            print(f"  {'PASS' if ok else 'FAIL'} {name}: {label}")
+    print("ALL GATES PASS" if all_ok else "GATES FAILING (see above)")
+    return 0 if (all_ok or not args.fail) else 1
+
+
+if __name__ == "__main__":
+    sys.exit(main())

diff --git a/tools/check-shot-truth.py b/tools/check-shot-truth.py
@@ -1,0 +1,68 @@
+"""Screenshot truth checks (SUNWRIGHT tools/check-shot-truth.mjs pattern):
+every HUD number on every dossier screenshot is recomputed from a headless
+replay at the captured tick and asserted equal. The replay runs the exact
+shot the browser runs (same seed + step count from shots.json), so any
+difference means the captured frame is not the deterministic sim.
+Usage: python3 tools/check-shot-truth.py [--port 8080]
+"""
+import argparse
+import json
+import subprocess
+import sys
+from pathlib import Path
+from urllib.parse import parse_qs, urlparse
+
+sys.path.insert(0, str(Path(__file__).resolve().parent))
+from shoot import arguments, game_server, load_shot, monitor, check_errors, shots  # noqa: E402
+
+from playwright.sync_api import sync_playwright  # noqa: E402
+
+ROOT = Path(__file__).resolve().parent.parent
+
+
+def replay(shot_name, seed, steps):
+    cmd = ["node", str(ROOT / "tools" / "replay-shot.mjs"),
+           "--shot", shot_name, "--seed", str(seed)]
+    if steps:
+        cmd += ["--steps", str(steps)]
+    out = subprocess.run(cmd, check=True, capture_output=True, text=True, cwd=ROOT)
+    return json.loads(out.stdout.strip().splitlines()[-1])
+
+
+def main():
+    args = arguments()
+    all_ok = True
+    with game_server(args.port) as url, sync_playwright() as playwright:
+        browser = playwright.chromium.launch(headless=True)
+        try:
+            page = browser.new_page(viewport={"width": 1280, "height": 720})
+            errors = monitor(page)
+            for shot in shots():
+                q = parse_qs(urlparse(shot["query"]).query)
+                name = q["shot"][0]
+                seed = int(q.get("seed", ["1"])[0])
+                steps = int(q["steps"][0]) if "steps" in q else 0
+                expected = replay(name, seed, steps)
+                load_shot(page, url, shot)
+                actual = page.evaluate("""() => {
+                    const s = window.__game.state;
+                    let foes = 0;
+                    for (const e of s.enemies) if (e.active) foes++;
+                    foes += s.spawnCount - s.spawnIndex;
+                    return {gold: s.gold, lives: s.lives, wave: s.wave,
+                            score: s.score, kills: s.kills, foes};
+                }""")
+                ok = actual == expected
+                all_ok = all_ok and ok
+                print(f"{shot['name']} ({shot['query']}): "
+                      f"{'PASS' if ok else 'FAIL'} browser={actual} replay={expected}")
+                check_errors(errors)
+            check_errors(errors)
+        finally:
+            browser.close()
+    print("TRUTH CHECK: ALL PASS" if all_ok else "TRUTH CHECK: FAILING")
+    return 0 if all_ok else 1
+
+
+if __name__ == "__main__":
+    sys.exit(main())

diff --git a/tools/shoot.py b/tools/shoot.py
@@ -90,7 +90,7 @@ def main():
                 load_shot(page, url, shot)
                 check_errors(errors)
                 target = ROOT / 'screenshots' / shot['name']
-                for quality in (85, 75, 65):
+                for quality in (95, 90, 85):
                     page.screenshot(path=str(target), type='jpeg', quality=quality)
                     if target.stat().st_size < 262144:
                         break

diff --git a/DESIGN.md b/DESIGN.md
@@ -8,6 +8,69 @@ different mechanics, different art. Only the kit's `vendor/makefun-game.ts`
 reused. No libraries, no network requests, no assets: plain ES modules +
 canvas 2D + WebAudio, all files under `game/`.
 
+## Where things live — architecture map
+
+Read the headings first: config → sim → systems → render.
+
+### 1. Config — game/src/config.js
+
+Every number and colour: field, path, towers, enemies, waves, economy,
+palette, Keeper story lines. No logic.
+
+### 2. Random — game/src/random.js
+
+mulberry32 seeded RNG. The seed is the whole replay: same seed, same game.
+
+### 3. Simulation — game/src/world.js
+
+The rules and state, no drawing, no browser: build / upgrade / sell /
+startWave / step, event flags, particles, floating texts, trauma shake.
+
+### 4. Input — game/src/input.js
+
+Mouse + keyboard, one-shot actions (start wave, pause, mute, speed,
+restart, deselect), tower hotkeys 1–5.
+
+### 5. Audio — game/src/audio.js
+
+WebAudio synth only, no assets: one sound per event flag, plus the
+wave-clear chime and the boss-death boom.
+
+### 6. Render — game/src/render.js
+
+Drawing only: field, road, keep, towers, enemies, HUD, build bar, wave
+banner and toast, boss bar, title / victory / defeat screens.
+
+### 7. Shots — game/src/shots.js
+
+The auto-player (public build / upgrade / startWave only) plus the
+staged-cover ticks: a pinned seed + step count reproduces one exact frame.
+
+### 8. Main loop — game/src/main.js
+
+Screens, fixed 1/60 timestep, speed 1x/2x, hit-stop with a real-time
+restore, tiered feedback (shake / flash / sound), wave toast, best score.
+
+### 9. Page — game/index.html
+
+Canvas `#game` + screen-reader `#status` line + module script.
+
+### 10. Entrypoint — main.ts
+
+Copies `game/` + `screenshots/` to the output dir and writes
+`dossier.json` with the vendored `buildDossier`.
+
+### 11. Dev server — serve.ts
+
+Tiny static server on port 8080 (`node serve.ts`).
+
+### 12. Tools — tools/
+
+`sim.js` (headless balance: auto-player must WIN), `shoot.py`
+(screenshots), `test_play.py` (mouse play-test), `scan-seeds.mjs`
+(staged-cover seed scan), `check-shot-truth.py` (HUD numbers recomputed
+from a headless replay), `measure-shots.py` (look gates).
+
 ## Concept
 
 EMBERFALL KEEP: a tower-defense strategy game. You are the keeper of a mountain
@@ -19,7 +82,8 @@ build and when you upgrade decides everything.
 
 Art direction: warm fantasy — deep moss-green field, warm amber/gold UI, ember
 glow on enemies. Palette: background #0e1a12, grass A #1d3324, grass B #24402c,
-path dirt #6b543a, path edge #8a6f4d, keep stone #9aa3ad, wood #7a5230, gold
+path dirt #57432e (darkened so ember enemies pop in value, not just hue),
+path edge #8a6f4d, keep stone #9aa3ad, wood #7a5230, gold
 #ffd94d, arrow #ffe9a8, cannon ember #ff7a3d, frost ice #7ad9ff, arcane violet
 #c77dff, tesla yellow #ffe14d, enemy ember #ff5a3d, text #f5ead6, muted
 #a8b39a. Everything reads at a glance when the screenshot is shrunk: big gold
